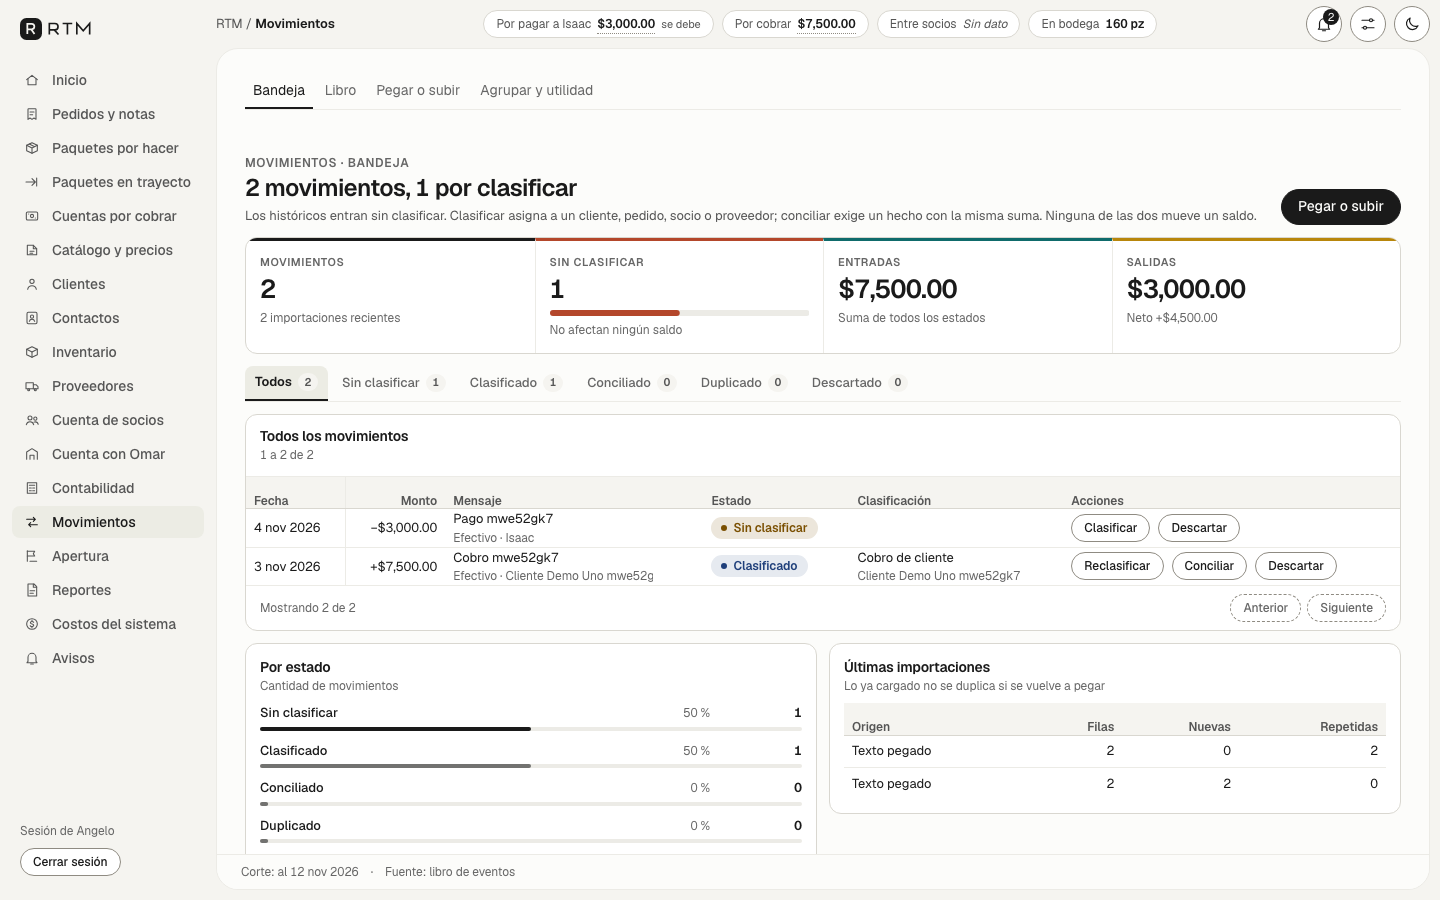
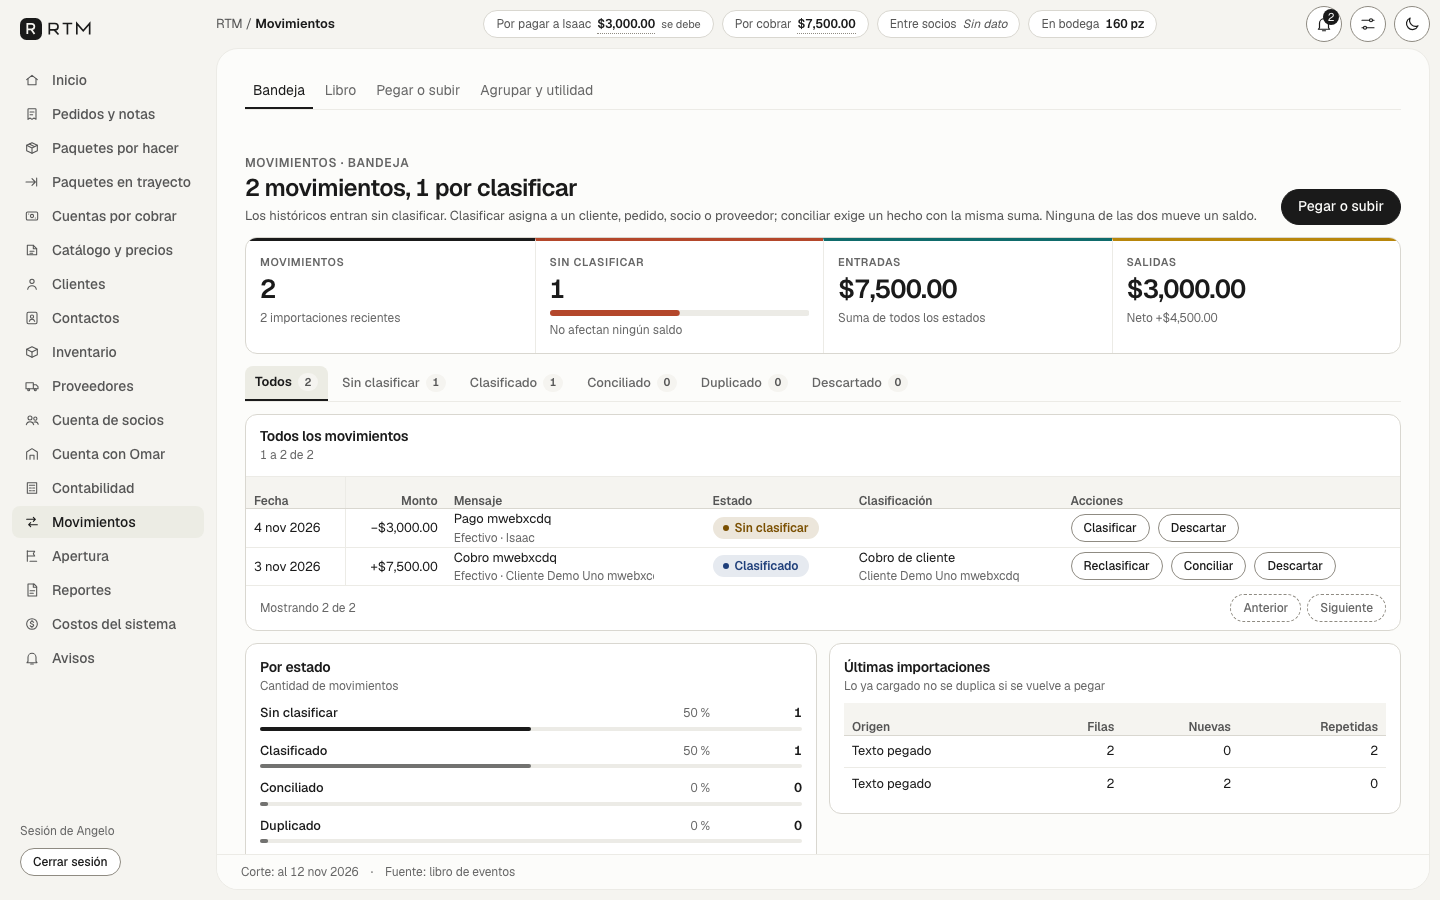
docs(cuadre): guia e informe de la ronda 3 (causa de No cuadra, persona de bodega) y capturas regeneradas

diff --git a/docs/guia-primeros-movimientos.md b/docs/guia-primeros-movimientos.md
@@ -19,7 +19,7 @@ Las cifras de las capturas de esta guía (`docs/capturas/cuadre/`) son de demost
 |---|---|---|
 | Que existan en el catálogo todos los modelos y sabores que hay en bodega, con su costo de Isaac y de Karen | Catálogo y precios | Isaac y Karen: lista vigente de modelos, sabores y costos |
 | Que existan todos los clientes con saldo pendiente y su precio por modelo | Clientes | Javier y Angelo: lista de clientes que hoy deben algo |
-| Que exista la persona de bodega (Omar) configurada. Sin ella la aplicación no deja marcar un pedido como enviado y responde "no hay persona de bodega configurada (Omar Yacaman)" | No se hace desde pantallas. La da de alta el importador (`npm run importar:nube -- /ruta/privada/importacion.sql` y luego `supabase db query --linked -f` sobre ese archivo, ver `docs/DESPLIEGUE.md`, sección Datos iniciales), que lee `persona_bodega` de `~/.rtm-datos/decisiones-importacion.json` (ya definida en esa Mac) y es idempotente. Si no se sabe si producción ya la tiene, correrlo es seguro: no duplica. Con ella verificada, el primer pedido real puede marcarse enviado | Javier |
+| Que exista la persona de bodega (Omar) configurada. Sin ella la aplicación no deja marcar un pedido como enviado y responde "no hay persona de bodega configurada (Omar Yacaman)" | **Clientes**: abre la ficha del cliente que presta la bodega (Omar; si no existe, créalo con "Nuevo cliente") y pulsa **Marcar como persona de bodega**, luego Confirmar. El botón solo aparece mientras no haya una configurada y es idempotente. El importador (`npm run importar:nube`, ver `docs/DESPLIEGUE.md`) también la da de alta | Javier |
 | Que los dos socios tengan acceso (correo en la lista de permitidos) | Inicio de sesión | Javier |
 
 Si un modelo, sabor o cliente no existe, la apertura no lo deja cargar: primero se da de alta en el catálogo (el paso 2 de la apertura muestra cuántos hay).
@@ -113,7 +113,7 @@ Revisa, en este orden:
 4. **Proveedores**: el saldo con Isaac y Karen coincide con su estado de cuenta.
 5. **Cuenta de socios y Cascada de reparto**. Son dos identidades distintas y no tienen por qué coincidir:
    - **Cascada, "Identidad por dos vías"**: debe decir "Cuadra". El efectivo que muestra ("calculado de las cajas") incluye el efectivo de la apertura por persona; debe ser igual a lo que dice Contabilidad > Caja y liquidez en efectivo. La comprobación CA2 lo vigila (libro 1101 contra Cascada) y se pone en rojo si algún día difieren.
-   - **Cuenta de socios, "Diferencia por la compra"**: compara lo que pusieron los socios con la mitad del costo de la compra. Cuadra cuando los socios ponen entre los dos TODO el costo (pagos de un socio al proveedor o aportaciones; está probado en pgTAP `a4_004`). Lo que pagó la sociedad con su efectivo, o que sigue a crédito con el proveedor, aparece en el aviso "Parte del costo no la pusieron los socios" y la diferencia entre las dos vías es exactamente esa cifra. Camino concreto: para dejarla en cero, cada socio registra en **Proveedores > Registrar pago de un socio** lo que él pagó; lo que salió de la caja de la sociedad no se puede "reclasificar" y mantiene el aviso. Cómo leer "puso cada socio" cuando hay crédito con proveedor o pago de la sociedad es una decisión pendiente del dueño; no se cambió la cuenta.
+   - **Cuenta de socios, "Diferencia por la compra"**: compara lo que pusieron los socios con la mitad del costo de la compra y cuadra (via 1 = via 2) cuando los socios ponen entre los dos TODO el costo, neto de los fondos de la sociedad que tienen en su poder. En la demostración la compra costó 5,250.00 y la sociedad pagó 1,000.00 de su caja; hasta que cada socio registra su pago de bolsillo (**Proveedores > Registrar pago de un socio > Dinero propio**, 2,900.00 cada uno en la demostración) Socios dice "No cuadra" y el aviso "Parte del costo no la pusieron los socios" da la cifra exacta (5,800.00 en la demostración), que es justo la diferencia entre las dos vías. Con esos pagos queda en cero, el aviso desaparece y Socios dice "Cuadra" (probado en pgTAP `a4_005`, y en el recorrido de Playwright). Lo que salió de la caja de la sociedad no se puede reclasificar; si en la vida real esa salida debe contarse como puesta por los socios es una decisión pendiente del dueño, no se cambió la regla.
    - **Pago de la sociedad a un proveedor**: descuenta el efectivo total de la Cascada y de Caja y liquidez por igual (CA2 en verde). Todavía no mueve ninguna caja por persona: de qué caja sale el pago es decisión pendiente del dueño.
 6. **Reportes**: "Preparar reporte". El reporte sale como definitivo solo cuando el periodo está aprobado y las comprobaciones pasan; en caso contrario sale "Preliminar" o "Parcial" y lo dice.
 
@@ -121,7 +121,7 @@ Revisa, en este orden:
 
 | Mensaje o síntoma | Causa | Qué hacer |
 |---|---|---|
-| "no hay persona de bodega configurada (Omar Yacaman)" al marcar un pedido enviado | No está dada de alta la persona de bodega | Pedirle a Javier que corra la importación inicial con la persona de bodega |
+| "no hay persona de bodega configurada (Omar Yacaman)" al marcar un pedido enviado | No está dada de alta la persona de bodega | Ficha del cliente que presta la bodega > Marcar como persona de bodega (ver Paso 0) |
 | "Ese paso ya no aplica al estado actual. Recarga la página." | Otra persona cambió el estado, o falta un dato de configuración (ver el texto entre paréntesis) | Recargar; si el paréntesis dice otra cosa, resolver eso primero |
 | La apertura no deja agregar un sabor | Ese sabor ya está cargado en la sesión o no existe en el catálogo | Revisar el paso 4 o dar de alta el sabor |
 | Diferencia en la cuenta puente 3990 | Los saldos cargados no cuadran con el capital declarado | Mantenerla mientras se investiga; resolver en el paso 9 |

diff --git a/docs/cuadrar-cuentas-informe.md b/docs/cuadrar-cuentas-informe.md
@@ -82,3 +82,11 @@ Capturas regeneradas en `docs/capturas/cuadre/` y revisadas a ojo (25 Comprobaci
 - Decision del dueno: de que caja sale el pago de la sociedad a un proveedor; como leer "puso cada socio" con credito de proveedor.
 - Confirmar persona de bodega y catalogo en produccion antes del primer pedido.
 - Movil y tema oscuro sin recorrido en este carril.
+
+## Ronda 3: Socios "No cuadra" en la demostracion y alta de la persona de bodega
+
+**Causa raiz de "No cuadra" (no es un defecto de SQL).** `operacion.cuenta_socios()` compara dos vias: via 1 = lo puesto por el socio menos la mitad del costo de la compra, via 2 = (A - J) / 2. Son iguales si y solo si lo puesto por los dos socios, neto de los fondos de la sociedad que tienen en su poder, suma el costo de la compra (`financiado_por_sociedad_cent = 0`); la diferencia entre las vias es exactamente esa cifra (probado en pgTAP `a4_004`). La demostracion de la ronda anterior dejaba 5,800.00 sin poner por los socios: costo 5,250.00; puesto: guia de Angelo 250.00 y deposito de Javier 2,000.00, menos fondos en su poder 1,000.00 (Angelo) y 1,800.00 (Javier); la sociedad pago 1,000.00 de su caja y Javier 500.00 con fondos de la sociedad. El flujo nunca registraba el pago de bolsillo de los socios, que es lo que la guia ya indicaba como camino. Correccion: el recorrido ahora registra, por la pantalla **Proveedores > Registrar pago de un socio > Dinero propio**, 2,900.00 de cada socio a Isaac (los 5,800.00 exactos). Resultado real: `cuadra = true`, via 1 = via 2 = -475.00, financiado por la sociedad = 0, el aviso desaparece. El efectivo (8,600.00) y las 27 comprobaciones no cambian. No se modifico la regla (cuanto de lo pagado desde la caja de la sociedad cuenta como "puesto por los socios" sigue pendiente del dueno). Observacion: `pago_proveedor_de_socio` registra el dinero propio como clasificacion `capital`; con la regla del 11-nov (dinero de un socio = reembolso salvo declaracion explicita) conviene que el dueno confirme si ese pago debe ser capital o reembolso; no se cambio.
+
+**Persona de bodega.** Faltaba pantalla. Migracion aditiva `20261113000400_alta_persona_bodega.sql`: `operacion.registrar_persona_bodega` (idempotente por clave, rechaza una segunda persona distinta y un cliente inexistente, deja auditoria) y su envoltorio `api.registrar_persona_bodega` (solo socio), agregada a la lista cerrada de acciones. Pantalla: boton **Marcar como persona de bodega** en la ficha del cliente (visible solo mientras no haya una configurada), con confirmacion; sin division por socio. El recorrido ya no la siembra por SQL: la da de alta por la interfaz (paso 4b) y el envio del pedido (paso 5) funciona despues.
+
+**Pruebas.** pgTAP `a4_005` (16 afirmaciones: alta, idempotencia, segunda persona rechazada, cliente desconocido, estado "No cuadra" con 5,800.00 y via 1 -3,375.00 / via 2 -475.00, y despues de los pagos de bolsillo cuadra con via 1 = via 2 y financiado 0). vitest `persona-bodega.test.tsx`. Recorrido Playwright: 11 de 11, con `cuadra = true` fijado en el paso 9 y capturas regeneradas. 0 builds de Vercel, 0 despliegues, sin push.
